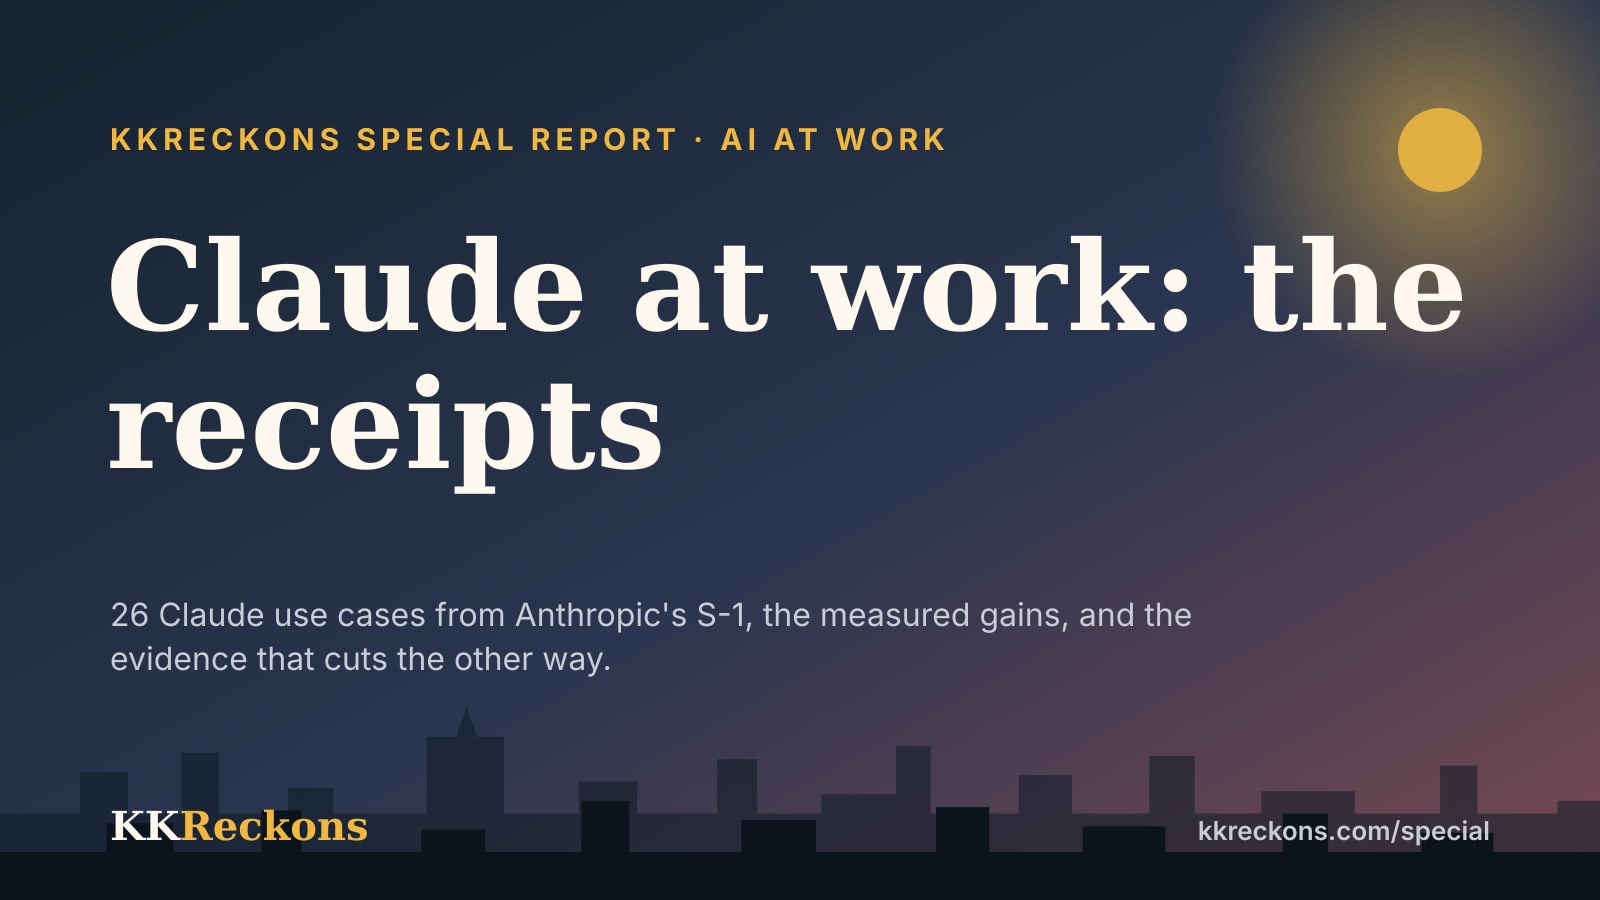
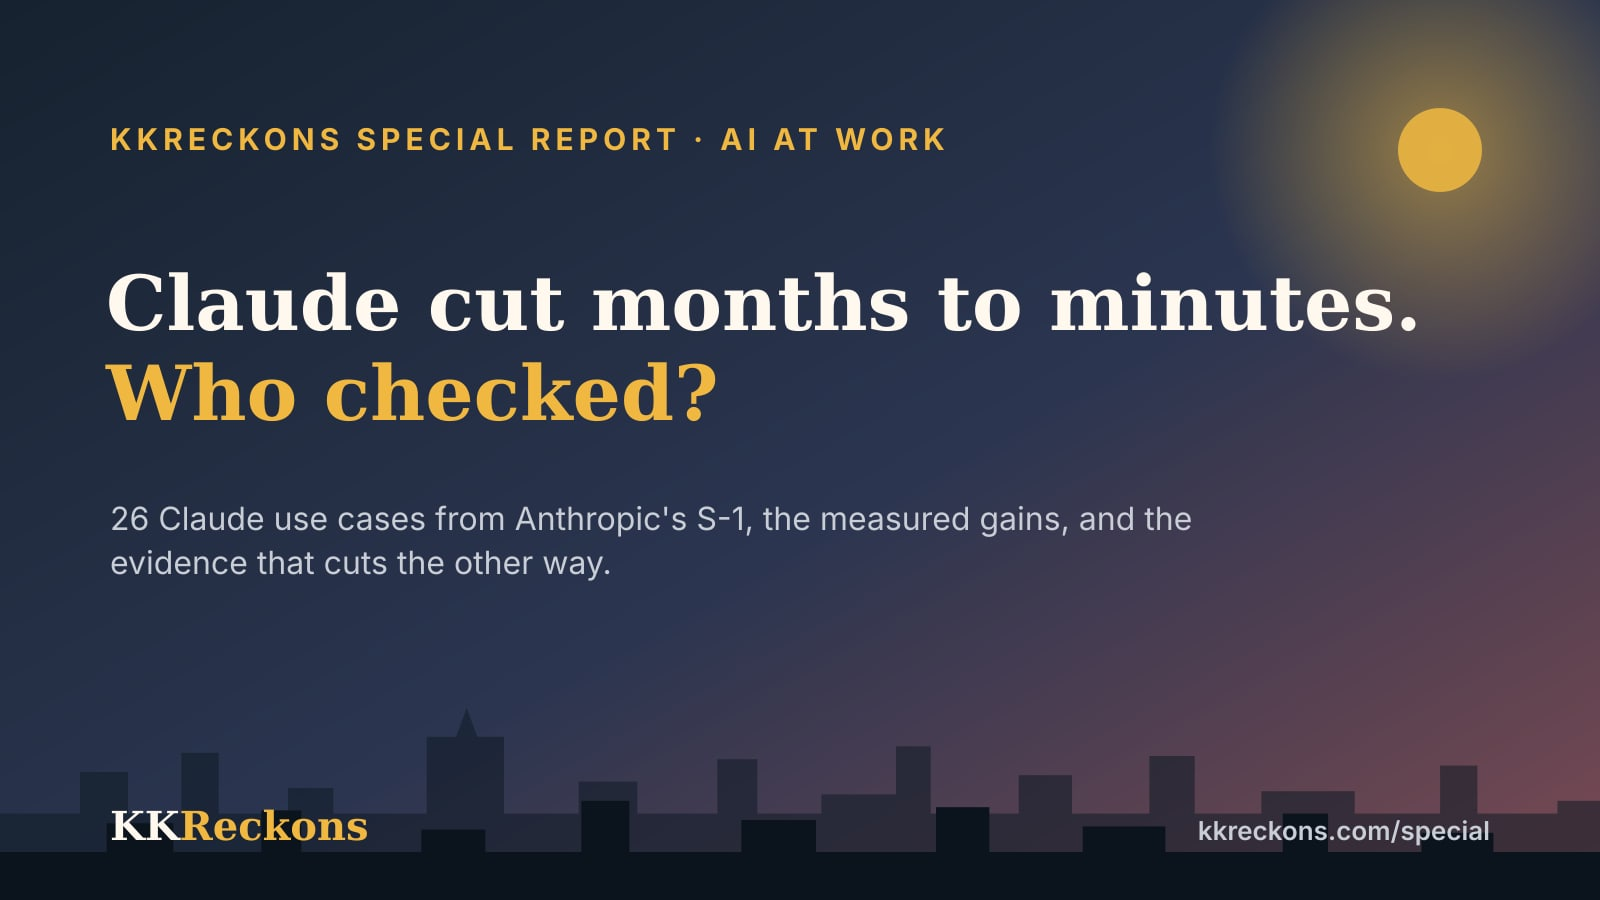
Claude at work: sharper headline, and fix the report headline's colour
Headline: "Claude cut months to minutes. Who checked?" (was "Claude at work:
the receipts"), on the report, the hub card, the registry and the cover.
The URL stays /special/claude-at-work.

The report's hero headline rendered dark ink on the dark hero, so only its
gold italic half was readable: the hub's heading rule (.sp h1) reached into
the report and overrode the hero's light text. It now applies only outside
.sp-report, at zero specificity so the hub's own hero keeps its white.

The cover script breaks a two-sentence title at the full stop, sizes it to
fit, and sets the second sentence in gold, as on the page.

Claude-Session: https://claude.ai/code/session_01XqBcyoSk2mzvzbC7hESze5

Changed region(s): [[0.0625, 0.4044, 0.75, 0.7467], [0.0625, 0.2489, 0.9375, 0.3733]]

diff --git a/special/claude-at-work.html b/special/claude-at-work.html
@@ -3,7 +3,7 @@
 <head>
 <meta charset="utf-8">
 <meta name="viewport" content="width=device-width,initial-scale=1,viewport-fit=cover">
-<title>Claude at work: the receipts</title>
+<title>Claude cut months to minutes. Who checked?</title>
 <meta name="description" content="26 Claude use cases from Anthropic's S-1, the measured gains, and the evidence that cuts the other way.">
 <!-- KKReckons special report by KK Reddy, built in the KKReckons Claude Project and served at https://www.kkreckons.com/special/claude-at-work
      inside the site's header and footer (app/special/[slug]/page.tsx). Lora and Poppins are the site's self-hosted fonts (app/special/special.css). -->
@@ -152,7 +152,7 @@ footer{padding-block:28px 40px;font-family:var(--sans);font-size:12.5px;color:va
 <header class="hero">
   <div class="wrap">
     <div class="lab"><a href="https://www.kkreckons.com/special" style="color:inherit;text-decoration:none">KKReckons special reports</a> · Thursday, 29 October 2026</div>
-    <h1>Claude at work: <em>the receipts</em></h1>
+    <h1>Claude cut months to minutes. <em>Who checked?</em></h1>
     <p class="dek">Anthropic's IPO filing carries 20 customer case studies. Here is what Claude actually did inside banks, drug makers, law firms and kitchens, what it saved, and what the numbers can't tell you.</p>
     <div class="byline">By KK Reddy · Sources: Anthropic's Form S-1 (26 Oct 2026), Anthropic research, independent studies</div>
   </div>

diff --git a/app/special/special.css b/app/special/special.css
@@ -19,7 +19,9 @@
 @media (prefers-color-scheme: dark) {
   :root:not([data-theme="light"]) .sp { --sp-paper: #121A23; --sp-card: #1B2633; --sp-ink: #ECE7DC; --sp-text: #DCD8D0; --sp-mute: #A6AFB9; --sp-line: #2E3B4A; --sp-brick: #E0725F; --sp-ochre: #E6B04A; --sp-teal: #6FB3BF; --sp-sand: #26303B; --sp-blush: #2E2628; --sp-mint: #1F3134; }
 }
-.sp h1, .sp h2, .sp h3 { font-family: var(--sp-serif); color: var(--sp-ink); margin: 0; text-wrap: balance; }
+/* The hub's and the page chrome's headings only: a report styles its own (a light headline on its dark hero would
+   otherwise take this dark ink and vanish). */
+:where(.sp :is(h1, h2, h3):not(.sp-report *)) { font-family: var(--sp-serif); color: var(--sp-ink); margin: 0; text-wrap: balance; }
 .sp-wrap { max-width: 1080px; margin: 0 auto; padding-left: max(16px, env(safe-area-inset-left, 0px)); padding-right: max(16px, env(safe-area-inset-right, 0px)); }
 .sp-lab { font: 600 12px/1.3 var(--sp-sans); letter-spacing: 0.12em; text-transform: uppercase; }
 
